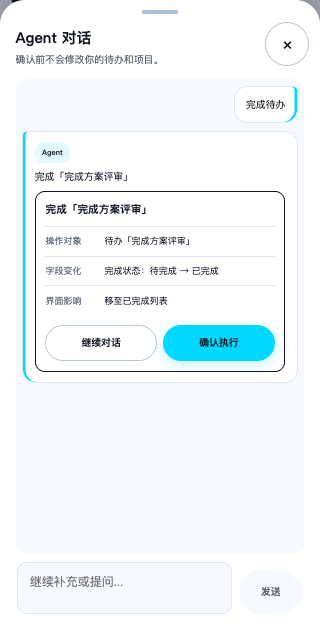
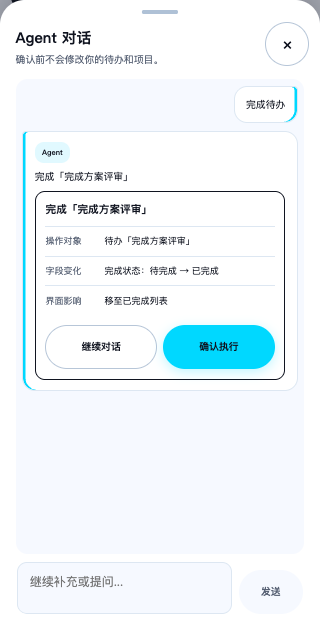
fix(agent): 完善 Action 卡重试与窄屏热区

Changed region(s): [[0.0625, 0.5176, 0.9062, 0.6394]]

diff --git a/tests/e2e/phase3-agent.spec.ts b/tests/e2e/phase3-agent.spec.ts
@@ -172,6 +172,15 @@ test('Phase 3 对话、计划、Smart Inbox 与原子确认形成真实闭环', 
     expect(geometry.scrollWidth).toBeLessThanOrEqual(geometry.rowWidth + 1);
     const composer = completeProposal.locator('.agentConversationComposer');
     await expect(composer).toBeVisible();
+    const smallTargets = await row.locator('[role="button"]').evaluateAll((nodes) =>
+      nodes
+        .filter((node) => {
+          const box = node.getBoundingClientRect();
+          return box.width < 44 || box.height < 44;
+        })
+        .map((node) => node.getAttribute('aria-label')),
+    );
+    expect(smallTargets, `${width}px Action 卡点击目标至少 44px`).toEqual([]);
     await completeProposal.screenshot({
       animations: 'disabled',
       path: `docs/quality/screenshots/phase3-agent-action-card-${width}x844.png`,
@@ -190,6 +199,12 @@ test('Phase 3 对话、计划、Smart Inbox 与原子确认形成真实闭环', 
     .withTags(['wcag2a', 'wcag2aa', 'wcag21aa'])
     .analyze();
   expect(actionAccessibility.violations).toEqual([]);
+  await page.emulateMedia({ reducedMotion: 'reduce' });
+  const actionTransition = await completeProposal
+    .getByRole('button', { name: '确认执行' })
+    .evaluate((element) => getComputedStyle(element).transitionDuration);
+  expect(Number.parseFloat(actionTransition)).toBeLessThanOrEqual(0.001);
+  await page.emulateMedia({ reducedMotion: 'no-preference' });
   await page.setViewportSize({ width: 390, height: 844 });
   await expect(completeProposal.getByRole('button', { name: /^编辑/ })).toHaveCount(0);
   await completeProposal.getByRole('button', { name: '确认执行' }).click();

diff --git a/apps/client/src/components/agent-conversation-dialog.tsx b/apps/client/src/components/agent-conversation-dialog.tsx
@@ -40,6 +40,8 @@ export type AgentConversationDialogProps = {
   onSubmit: () => void;
   pending: boolean;
   planProposalIds?: readonly string[];
+  proposalErrors?: readonly string[];
+  onRetryProposal?: (proposalId: string) => void;
   scrollToLatest?: number;
   undoToast?: ReactNode;
 };
@@ -63,6 +65,8 @@ export function AgentConversationDialog({
   onSubmit,
   pending,
   planProposalIds = [],
+  proposalErrors = [],
+  onRetryProposal,
   scrollToLatest,
   undoToast,
 }: AgentConversationDialogProps) {
@@ -282,6 +286,17 @@ export function AgentConversationDialog({
               >
                 查看计划草稿
               </ElectricButton>
+            ) : message.proposalId && proposalErrors.includes(message.proposalId) ? (
+              <View className="agentConversationError">
+                <Text>暂时无法读取操作卡</Text>
+                <ElectricButton
+                  ariaLabel="重试读取操作卡"
+                  onClick={() => onRetryProposal?.(message.proposalId ?? '')}
+                  variant="secondary"
+                >
+                  重试
+                </ElectricButton>
+              </View>
             ) : message.proposalId ? (
               <Text className="agentActionCardStatus">正在读取提案…</Text>
             ) : null}

diff --git a/apps/client/src/components/agent-panels.test.tsx b/apps/client/src/components/agent-panels.test.tsx
@@ -261,6 +261,30 @@ describe('production Agent panels', () => {
     expect(markup).not.toContain('查看操作草稿');
   });
 
+  it('offers an inline retry when a historical proposal cannot be loaded', () => {
+    const markup = renderToStaticMarkup(
+      <AgentConversationDialog
+        draft=""
+        messages={[
+          { content: '待确认的操作', id: 'm-retry', proposalId: 'p-retry', role: 'ASSISTANT' },
+        ]}
+        proposalErrors={['p-retry']}
+        onAnswer={() => undefined}
+        onClose={() => undefined}
+        onDraftChange={() => undefined}
+        onFreeText={() => undefined}
+        onGeneratePlan={() => undefined}
+        onOpenProposal={() => undefined}
+        onRetryProposal={() => undefined}
+        onSubmit={() => undefined}
+        pending={false}
+      />,
+    );
+    expect(markup).toContain('暂时无法读取操作卡');
+    expect(markup).toContain('重试读取操作卡');
+    expect(markup).not.toContain('查看操作草稿');
+  });
+
   it('does not offer or accept an unassigned project for plan drafts', () => {
     const item = {
       deadlineAt: '',

diff --git a/apps/client/src/components/use-agent-product.tsx b/apps/client/src/components/use-agent-product.tsx
@@ -1156,6 +1156,13 @@ export function useAgentProduct({
         planProposalIds={Object.values(conversationProposals)
           .filter((value) => value.presentation === 'PLAN')
           .map((value) => value.id)}
+        proposalErrors={conversationProposalIds.filter(
+          (_, index) => conversationProposalQueries[index]?.isError,
+        )}
+        onRetryProposal={(proposalId) => {
+          const index = conversationProposalIds.indexOf(proposalId);
+          if (index >= 0) void conversationProposalQueries[index]?.refetch();
+        }}
         onSubmit={() => void latestSubmitConversationText.current()}
         scrollToLatest={scrollToLatest}
         undoToast={

diff --git a/apps/client/src/components/agent-panels.scss b/apps/client/src/components/agent-panels.scss
@@ -258,7 +258,8 @@
 }
 
 .agentActionCardActions > button {
-  min-height: 44px;
+  /* prettier-ignore */
+  min-height: 44PX;
 }
 .agentActionCardStatus {
   display: block;
@@ -273,7 +274,8 @@
   border-top: 1px solid var(--ei-canvas);
 }
 .agentActionCardRemoveRow > button {
-  min-height: 44px;
+  /* prettier-ignore */
+  min-height: 44PX;
 }
 
 .agentMessageTag,

diff --git a/docs/quality/2026-09-30-action-card-plan-separation.md b/docs/quality/2026-09-30-action-card-plan-separation.md
@@ -1,0 +1,36 @@
+# 对话 Action 卡与计划草稿分离复验
+
+日期：2026-09-30。范围：正式 H5、公开提案契约、NestJS 提案持久化及确认；Agent 服务替身和隔离数据库使用合成数据。T24 仍待人工审查，未进入 T25–T27。
+
+## 结论
+
+- `presentation` 从关联 Run 的持久化结果类型确定。`PLAN` 进入可编辑计划草稿浮层；`ACTION_PROPOSAL` 进入原对话消息区的白底深边框 Action 卡，即使操作码为批量创建项目与任务也不改变分类。提案查询、编辑、取消、确认和旧幂等快照重放返回同一字段，未增加数据库列或 Python 协议字段。
+- Action 卡使用 Mutation 快照呈现真实对象、字段前后值和界面影响；覆盖新建、整理、修改、完成、恢复、软删除及新建项目。未知项目显示“项目不可用”，不伪装成“未归属”。整理建议可逐项移除，但保留至少一项。确认成功后留在当前对话，原卡显示“已执行”；计划草稿确认后仍返回首页。
+- “继续对话”仅聚焦固定底部输入；打字、关闭不取消。发送追问时先取消目标 Action，再用相同 `conversationId` 提交。取消失败会刷新卡片并停止发送；取消成功后发送失败，旧卡保持不可执行，草稿保留可重试。确认与追问使用共同提交锁；网络结果不明时读取服务端提案状态。历史卡读取失败提供对话内重试。
+- 删除 Action 的三秒撤销入口在对话内部可见、可通过键盘进入，期限仍由服务端 `expiresAt` 决定。
+
+上一轮 [V01 专项](2026-09-30-mobile-v01-revalidation.md)修正了计划与旧 Action 浮层的字号和行宽，但没有解决两种展示结构混淆。本文的截图和交互检查针对本次结构修正。
+
+## 正式页证据
+
+Action 卡截图：[320×844](screenshots/phase3-agent-action-card-320x844.png)、[390×844](screenshots/phase3-agent-action-card-390x844.png)、[480×844](screenshots/phase3-agent-action-card-480x844.png)、[390×560](screenshots/phase3-agent-action-card-390x560.png)。这些来自正式 H5 E2E，截图时关闭动画以比较静态结果；真实点击、卡片状态和焦点由浏览器用例另行验证。四种尺寸下卡片可换行、消息区独立滚动、底部输入可见、无水平溢出。390×560 仅验证压缩视口，没有模拟真实系统软键盘。
+
+浏览器用例覆盖：PLAN 浮层创建，Smart Inbox 整理 Action 恢复及单项移除，通用 Action 对话内确认，点击继续对话与关闭不取消，取消失败不发新轮次、成功后同会话追问、快速双击，取消后请求失败保留草稿，删除后对话内撤销，三轮文本续聊及问题版本冲突。四视口 Action 卡按钮热区实测不小于 44 CSS px；减少动态效果模式下转场时长被压至 0.001 秒以内。对话 axe WCAG 2 A/AA 与 2.1 AA 检查无违规；原 Phase 2 Bottom Sheet 焦点与浏览器返回用例通过。轮询重开不重复加入卡片。
+
+## 实际运行
+
+| 检查                    | 结果                                           |
+| ----------------------- | ---------------------------------------------- |
+| Contracts 单元          | 52/52 通过                                     |
+| Client 单元             | 83/83 通过                                     |
+| Server 单元             | 126/126 通过                                   |
+| `pnpm test:integration` | 12/12 Turbo 任务通过；Server 56/56，Python 1/1 |
+| `pnpm lint`             | 8/8 包通过，根级 E2E ESLint 通过               |
+| `pnpm typecheck`        | 12/12 任务通过                                 |
+| `pnpm build`            | 8/8 包通过                                     |
+| 正式输入 + Phase 2 E2E  | 独立服务串行 7/7 通过                          |
+| Phase 3 E2E             | 独立服务串行 4/4 通过                          |
+
+合并 11 项串行运行时，前 10 项通过，第 11 项在注册合成账号阶段触发服务端每小时 10 次的 IP 限流（HTTP 429），未进入业务断言；拆分为上述两个隔离服务后全部通过。此前并行运行出现 10/11 通过、末项未调度，末项另行单独 1/1 通过。以上失败不记作业务功能验收通过的证据。
+
+本轮未运行真实 DeepSeek Smoke；浏览器使用受控替身，不把它写成真实 Provider 验证。未部署生产、未开放公网、未使用真实用户数据。

diff --git a/tasks/current.md b/tasks/current.md
@@ -1,13 +1,15 @@
 # 当前任务
 
+> 2026-09-30：通用 Action 确认卡已回到对话消息区，专门 PLAN 保留计划草稿浮层。提案分类来自关联 Run；追问仅在发送时取消旧 Action；确认后留在对话并显示“已执行”。复验和四视口截图见[Action／计划分离专项](../docs/quality/2026-09-30-action-card-plan-separation.md)。T24 人工审查仍待完成。
+
 > 2026-09-30：正式 H5 的移动端 V01（计划草稿与 Action 确认区文字层级）已修复。定向 Phase 3 闭环 1/1、客户端单测 79/79、lint 8/8、typecheck 12/12、build 8/8；复验及截图见[移动端 V01 专项](../docs/quality/2026-09-30-mobile-v01-revalidation.md)。T24 人工审查仍待完成，V02–V12 未纳入本次。
 
 > 2026-09-29：正式 Agent 对话浮层已按 Production V3 与 PRD 4.7 修正，固定底部输入、统一候选字体，并支持同浮层多轮问答。完整 H5 E2E 两片各 10/10，定向 Phase 3 E2E 1/1；验收证据见[对话浮层专项](../docs/quality/2026-09-29-agent-conversation-review.md)。T24 人工审查仍待完成。
 
 > 2026-09-28：正式产品 UX 动效专项已实施，完整 H5 E2E 分两片运行各 10/10；保留 T24 人工审查门禁。动效规格与运行复验见[专项报告](../docs/quality/2026-09-28-production-motion-review.md)；本节原有 Phase 3 历史记录继续保留。
 
-- 任务：移动端 V01 已修复，等待 T24 人工审查
-- 状态：本轮定向 Phase 3 E2E 1/1、客户端单元 79/79、lint/typecheck/build 通过；停在 T24。2026-09-29 的完整 H5 E2E 分片 20/20 与更早的 19/19、40/40 属于历史运行记录，本轮未重复全量 E2E。
+- 任务：Action 确认卡与计划草稿浮层分离已实施，等待 T24 人工审查
+- 状态：本轮 Contracts 52/52、Client 83/83、Server 126/126，集成 12/12 任务、lint 8/8、typecheck 12/12、build 8/8 通过；正式输入 + Phase 2 E2E 7/7、Phase 3 E2E 4/4 以独立服务串行通过。停在 T24。
 - 工作分支：`dev`；原独立验收基线为 `f178d673112a8b54cb1c84da390384b204ade614`
 - 当前门禁：H2 历史人工通过；T24 等待人工审查；H3 仍未通过
 - 最新修复复验：[`docs/quality/2026-09-27-production-agent-input-review.md`](../docs/quality/2026-09-27-production-agent-input-review.md)
@@ -21,6 +23,7 @@
 
 ## 当前结论
 
+- 前轮 V01 只修正了文字层级，没有解决 Action 与 PLAN 的展示结构混淆。本轮已将通用 Action 放入对话卡；PLAN 独立浮层保留编辑、重试和直接创建。Action 追问取消、确认回执、整理单项移除、删除三秒撤销及关闭重开草稿已经过正式 H5 用例验证。
 - V01 中提案摘要、任务、序号及状态的异常字号已修复；计划行中间标题获得主要宽度，“编辑”文字保持 44px 热区且不再竖排。对照 Production V3 保留文字编辑入口；详见[专项复验](../docs/quality/2026-09-30-mobile-v01-revalidation.md)。
 - 用户反馈正式 Agent 输入页与 H1 原型样式不同。已修复正式页示例按钮、输入框与内层 textarea，并补齐正式入口三视口、边缘聚焦、禁用与示例填入、压缩视口及 axe 证据；本次不修改原型。
 

diff --git a/tasks/todo.md b/tasks/todo.md
@@ -4,6 +4,7 @@
 
 ## 当前验收事项
 
+- [x] 对话 Action 确认卡与计划草稿浮层分离：Run 分类契约、历史/幂等兼容、对话内确认与追问发送前取消、整理单项移除、删除撤销及四视口正式页证据；见[专项复验](../docs/quality/2026-09-30-action-card-plan-separation.md)。T24 人工审查状态不变。
 - [x] 移动端 V01：修复计划草稿与 Action 确认区文字层级、任务行宽度和编辑文字换行；证据见[专项复验](../docs/quality/2026-09-30-mobile-v01-revalidation.md)，T24 人工审查状态不变。
 - [x] 正式 Agent 对话浮层：固定底部输入与独立滚动消息区、统一候选字体、同会话多轮问答及 409 草稿保留；证据见[对话浮层专项](../docs/quality/2026-09-29-agent-conversation-review.md)，T24 人工审查状态不变。
 
